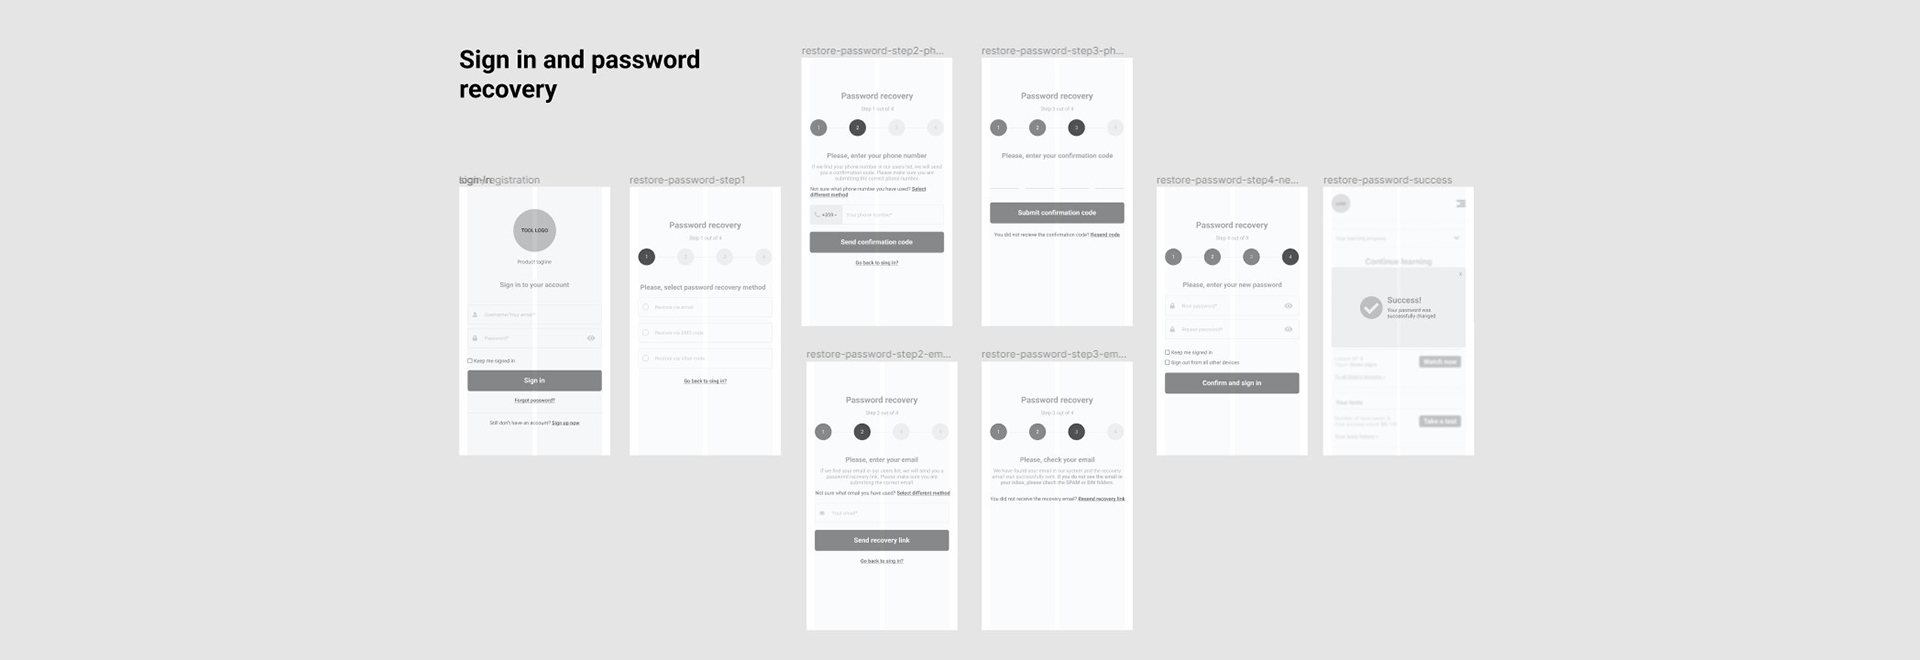
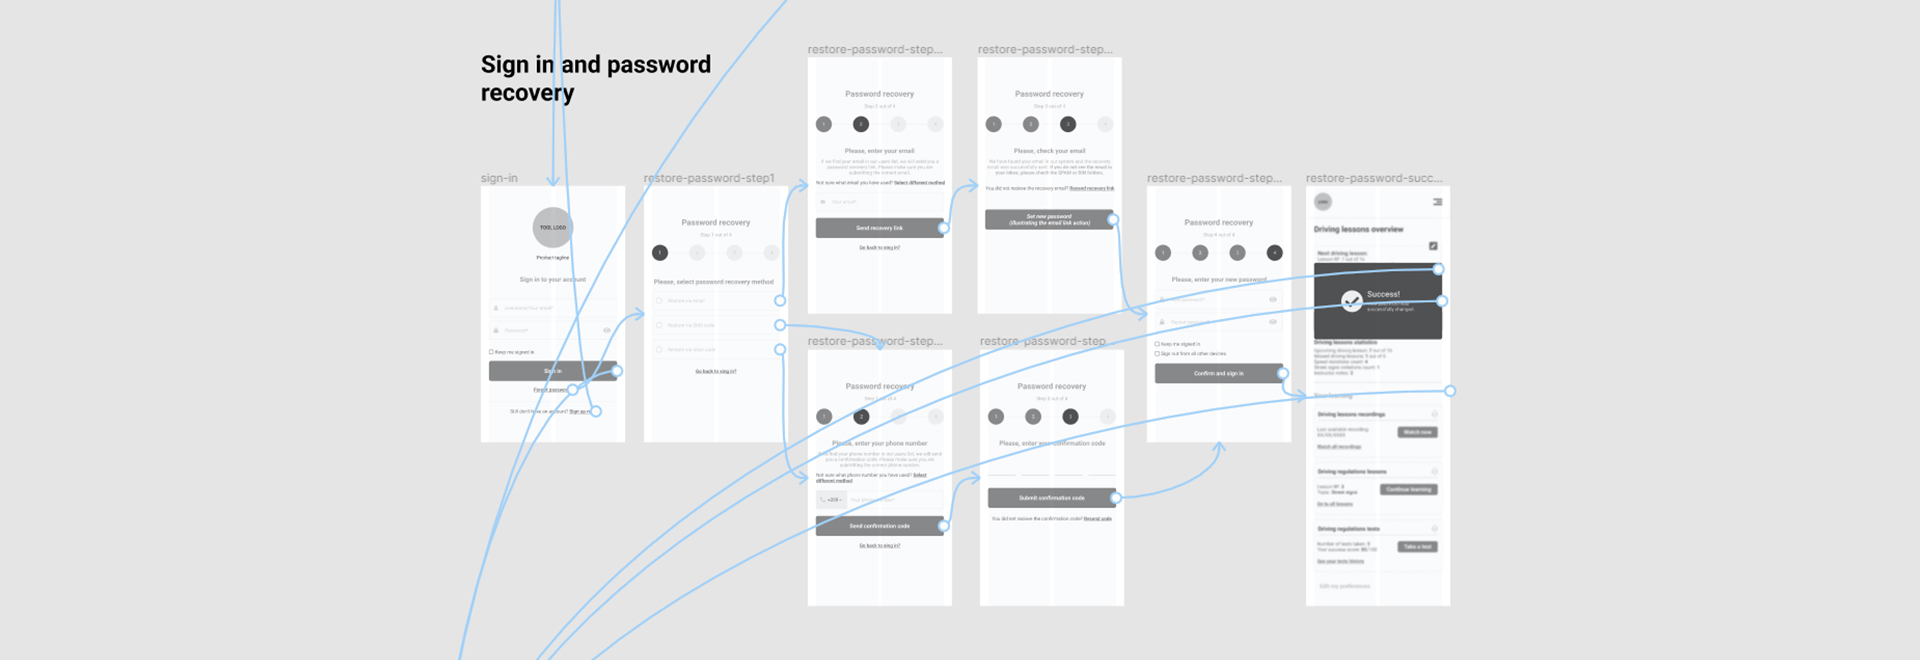
New carousel images

diff --git a/pages/portfolio/ui-design/projects/archibald/archibald-driving-assistant.html b/pages/portfolio/ui-design/projects/archibald/archibald-driving-assistant.html
@@ -395,7 +395,7 @@ return lottie;
       <div class="mt-4">
           <a class="outbound-link" href="https://www.figma.com/file/DSADZKVuI60QLmls1mUX03/User-Flow-Diagram?node-id=0%3A1" target="_blank">Go to the User Flow Map</a>
           <br>
-          <a class="outbound-link" href="https://www.figma.com/file/1LNCDBamqDYunYMc6mNmRm/Archibald---Wireframe?node-id=0%3A1" target="_blnk">Go to the Low-fi Prototype</a>
+          <a class="outbound-link" href="https://www.figma.com/file/1LNCDBamqDYunYMc6mNmRm/Archibald---Wireframe?node-id=0%3A1" target="_blnk">Go to the Low-fi Prototype (basic interactions added)</a>
         </ul>
       </div>
     </div>
@@ -415,13 +415,15 @@ return lottie;
               <div class="carousel-item"> <img src="/pages/portfolio/ui-design/projects/archibald/tool-features.jpg" alt="Tool features"> </div>
               <div class="carousel-item"> <img src="/pages/portfolio/ui-design/projects/archibald/sing-in-and-recovery.jpg" alt=""> </div>
               <div class="carousel-item"> <img src="/pages/portfolio/ui-design/projects/archibald/sing-up-and-dashboard.jpg" alt=""> </div>
+              <div class="carousel-item"> <img src="/pages/portfolio/ui-design/projects/archibald/dashboard-configured.jpg" alt=""> </div>
           </div> <!-- Left right --> <a class="carousel-control-prev" href="#custCarousel" data-slide="prev"> <span class="carousel-control-prev-icon"></span> </a> <a class="carousel-control-next" href="#custCarousel" data-slide="next"> <span class="carousel-control-next-icon"></span> </a> <!-- Thumbnails -->
           <row>
             <ol class="carousel-indicators list-inline">
               <li class="list-inline-item active"> <a id="carousel-selector-0" class="selected" data-slide-to="0" data-target="#custCarousel"> <img src="/pages/portfolio/ui-design/projects/archibald/user-flow-1.jpg" class="img-fluid"> </a> </li>
               <li class="list-inline-item"> <a id="carousel-selector-1" data-slide-to="1" data-target="#custCarousel"> <img src="/pages/portfolio/ui-design/projects/archibald/tool-features.jpg" class="img-fluid"> </a> </li>
               <li class="list-inline-item"> <a id="carousel-selector-2" data-slide-to="2" data-target="#custCarousel"> <img src="/pages/portfolio/ui-design/projects/archibald/sing-in-and-recovery.jpg" class="img-fluid"> </a> </li>
-              <li class="list-inline-item"> <a id="carousel-selector-2" data-slide-to="3" data-target="#custCarousel"> <img src="/pages/portfolio/ui-design/projects/archibald/sing-up-and-dashboard.jpg" class="img-fluid"> </a> </li>
+              <li class="list-inline-item"> <a id="carousel-selector-3" data-slide-to="3" data-target="#custCarousel"> <img src="/pages/portfolio/ui-design/projects/archibald/sing-up-and-dashboard.jpg" class="img-fluid"> </a> </li>
+              <li class="list-inline-item"> <a id="carousel-selector-4" data-slide-to="4" data-target="#custCarousel"> <img src="/pages/portfolio/ui-design/projects/archibald/dashboard-configured.jpg" class="img-fluid"> </a> </li>
             </ol>
           </row>          
       </div>
